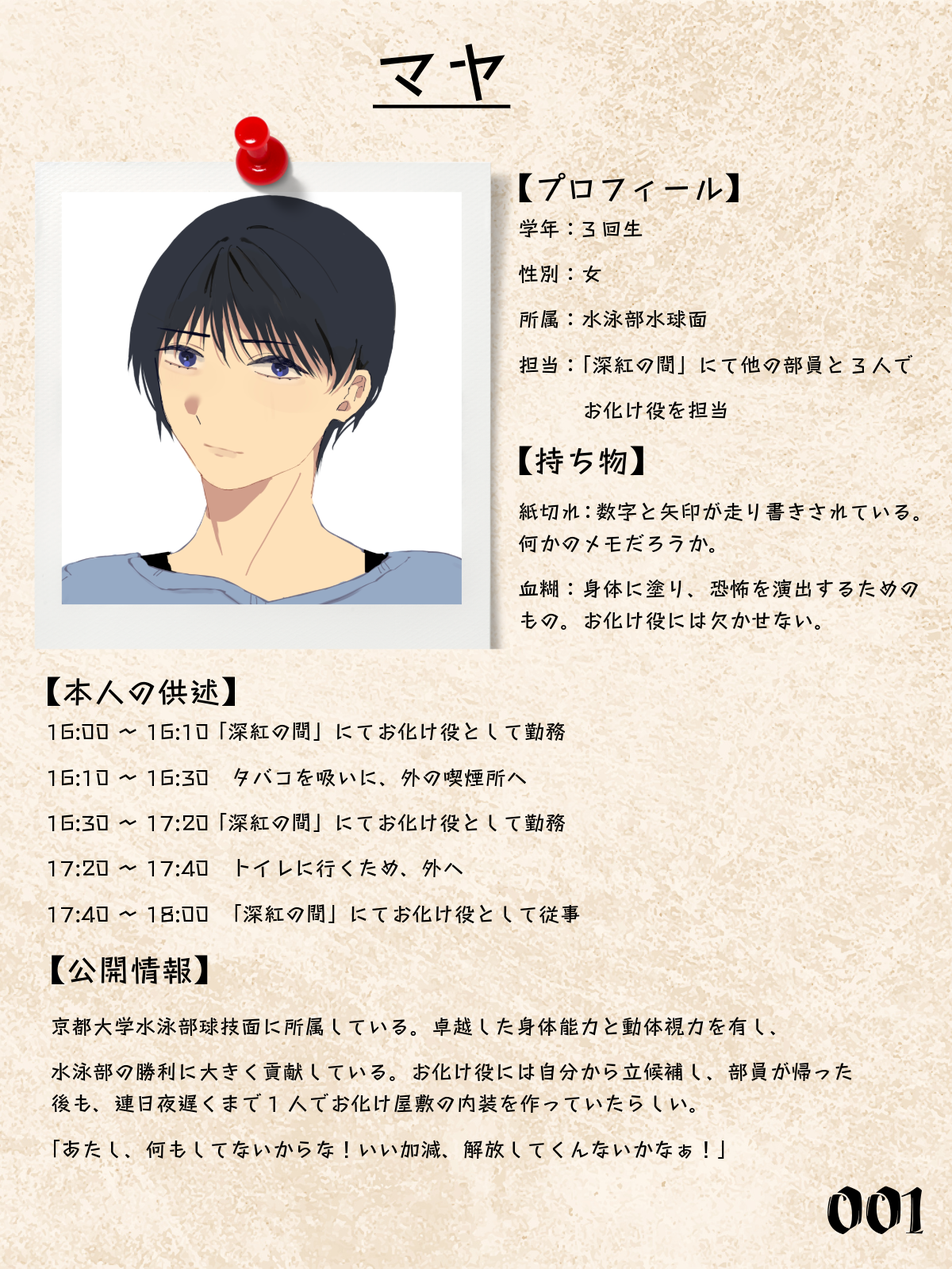
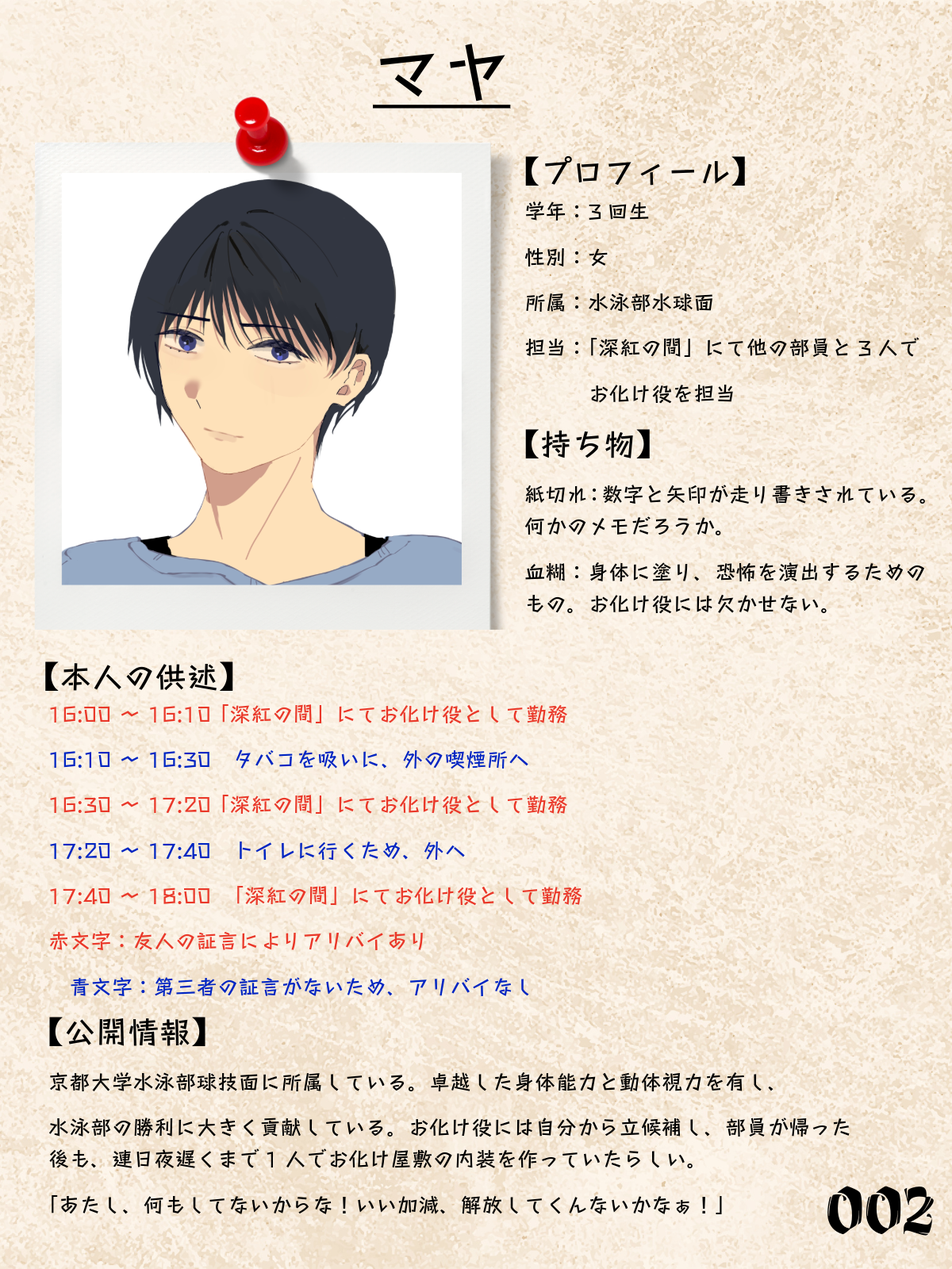
TrueエンドのあとがきとN6の赤汚れを出し、紙カード案内と回答欄を閉じたあとの画面高を直す。

diff --git a/webapp/dist/app.js b/webapp/dist/app.js
@@ -1993,7 +1993,18 @@ function composerContentMarkup(p) {
 }
 
 function puzzleTextMarkup(text) {
-  return String(text).split('{blank}').map(esc).join('<span class="puzzle-blank">？</span>');
+  const source = String(text);
+  const pattern = /\{blank\}|\{stain\}|\{(red|gold|green)\}([\s\S]*?)\{\/\1\}/g;
+  let html = '';
+  let last = 0;
+  for (const match of source.matchAll(pattern)) {
+    html += esc(source.slice(last, match.index));
+    if (match[0] === '{blank}') html += '<span class="puzzle-blank">？</span>';
+    else if (match[0] === '{stain}') html += '<span class="ink-stain" role="img" aria-label="赤い汚れで隠れた文字"></span>';
+    else html += `<span class="ink-${match[1]}">${esc(match[2])}</span>`;
+    last = match.index + match[0].length;
+  }
+  return html + esc(source.slice(last));
 }
 
 function puzzleImages(p = current()) {
@@ -2129,12 +2140,46 @@ const MEI_AB_AFTERWORD_PARAGRAPHS = [
   'という意味深な言葉を残して、〆にしたいと思います。ここまで読んでくださりありがとうございます！長時間のプレイありがとうございました！！',
 ];
 
+const TRUE_AFTERWORD_PARAGRAPHS = [
+  '冥をクリア(Trueエンドに到達)された方へ',
+  'こちらのメッセージをご覧の皆さま。冥のクリアに加え、アンケートにもご回答いただき、誠にありがとうございます。こちらは、3つ目のエンド、Trueエンドのあとがきとなっております。初見でこちらにたどり着いた方は素晴らしい慧眼の持ち主です。ぜひ、あとで他2つのエンディングもご確認ください。メニューバーから再度Q9をプレイすることが可能です。',
+  'せっかくなのでこちらのあとがきでは、制作秘話をお話したいと思います。我ら、Team.KusuNoKiの大文字の4文字は、昨年「クスノキが枯れた日」を発表した際のメンバー4人の名前を取ったものなのですが、今年はそこに2人を加えた6人体制で制作を行いました。（新規メンバー2人のアルファベットが刻まれていないのは文字が足りないから）',
+  '私（2人目のK）は、ウェブサイト、WeBot、そして本編の3つのエンディングを担当したのですが、このワンオペ作業は非常に苦しかったです笑。学生の本分たる勉学の草鞋を脱ぎ捨て、バイトと謎解き開発に邁進した結果がこれになります。',
+  '昨年は回答入力用にLineボットを使用していたのですが、使いづらさが目立ち、回答入力だけでなく、より柔軟な表現や入力などができるようにウェブアプリを構築しました。使い勝手のほどはいかがでしたでしょうか？開発において大変だったのが、やはりデザイン面とバグの解消です。私自身がこだわり派の人間なこともあり、見やすい、滑らかに動く、わかりやすい統一的なデザインを模索したため、構築に非常に時間を要してしまいました。この程度の小さいアプリでもバグは結構出るもので、テストプレイ段階で画像の差し替えや動作不良が続々と見つかりまして、その都度求められる修正作業が必要でした。',
+  '私は謎づくりのセンスはまったくないのですが、チームメンバーには才能を持つものが何人かいまして、彼らの作る謎を一般人の視点でレビューしておりました。特に私の評価が高いのはN4の標識の謎とQ9の儀式の工作の謎です。去年にはなかったテイストの謎であり、テストプレイをして感動しました。',
+  'そして3つのエンディングですが、ぜひ感想を伺いたく思います。3つのエンディングは1本あたり4時間近く思考して書き上げています。Xなどで好きなエンディングを答えていただけると幸いです。個人的な好みはA。',
+  '前作ではシナリオを担当したものの、今作ではウェブアプリの構築や最終的に断念したもののNFで販売予定だった別の作品に取り組んでいたこともあってエンディングに専念させていただきました。3つのエンドは「選択」をテーマとして、中でもノーマルエンドの2つは、選択のもたらす結末への向き合い方について2つのパターンを示すエンドにしたつもりです。やはり、物語的で綺麗な結末なのは中断ルート（ルートA）で、私の実際の思考に近いのは続行ルート（ルートB）かなと思っています。約束の伏線はルートAを書き上げたあとに物語内に仕込みました。そしてこのTrueルートは、2つのルート完成後に、既存の約束を発展させつつタツの強い決意を引き出すため、多くを語らなかったミサメの行動原理に触れ、最終的に約束を叶えた暁に未来につながる新しい約束を結ぶという展開を構想した次第です。',
+  'このエンドの末文「窓の外はあの日のような宵の空。落日の深青に漂う茜色の余燼が冒険の終わりと次なる旅路を予感させた。」は私のお気に入りです。余燼とは焚き火のあとで炎が消え、赤くくすぶって燃え残っている火のことを指します。この単語から終わりだけでなく同時に次の日の出立＝これからの未来を連想し、この結末にピッタリの表現だと考え採用しました。',
+  '最後となりますが、ここまでプレイしていただきありがとうございました。去年できなかったことをやりたいという思いから、今年はウェブアプリの導入、周遊要素を増した謎、工作をする謎、マルチエンディングなど新しい挑戦を多数導入しました。至らぬところは多々あったと思いますが楽しんでいただけたら光栄です。まだ他のエンドを見ていないという方はぜひそちらもお楽しみください。来年の出展はまだ予定しておりませんが、皆様の声が励みとなります。公式Xのフォローもよろしくお願いします。この度はありがとうございました',
+];
+
+const TRUE_AFTERWORD_NOTES = [
+  '①　N1の色が変：実は最初の謎からハナの色覚異常についての伏線は貼られていました。N1をもう一度確認してみると、太陽のイラストの赤色が変ですよね...。',
+  '②　末席同好会の貼り紙の色が変：こちらは、覚えている方は少ないと思いますが、末席同好会のチラシに使われている色も少し変でした。ハナは堂々と赤色と思って使った色が...ということです。',
+  '③　N5の問題文が「最『期』の場所へ向かえ」になっている。正しい漢字は「最『後』」ですよね。ここもハナのお茶目心で、「あんた次の行ったところで死にまっせ」みたいな意味合いだったんですね。誤植だと思われたみなさん、違います！！！(大声)。タツたちは、「最期」の漢字を普通に「最後」と捉えて会話を進めていましたね...。気づいたところで、まさか行ったら殺されるなんて気づかず、誤植だと思うだけですが...。',
+  '④　実は、N5のタイトル「Navigate to Fear」は、恐怖への誘い、もっとストレートに言うと、「お化け屋敷への誘い」だったんですよね。ほとんどの皆様が、タイトルが「NF縛り」なのは気づかれたと思うんですけど、N5のタイトルから、勘の良い人は問題を解かずとも最期の場所はお化け屋敷と気づきそうです(気づきましたか？)。これを書いていて思い出しましたが、N3のタイトル「Notice of Fortune　幸運のお告げ」はおみくじのことを暗喩しています。',
+  '⑤　サダヲは本当にお腹が弱いだけ。サダヲは、犯人候補の4人のうち、唯一、何も後ろめたいことがない人です。なのに、一番疑われて...不憫なキャラです（笑）。',
+  '⑥　マヤの持ち物「紙切れ」には、実は金庫の開け方が書いてあるという設定がありました。わざわざ作中で回収する程でもなく、ミスリーディング要員で置いておきました。同様にアツヤのライトに名前の刻印があるのも特に意味はありません。攪乱要員です。',
+  '⑦　ハナが冥の冒頭、ミサメの死体を急に見たときに「血ってこんなスミレ色なの！？」って言ってたのは演技＆色覚異常の伏線です。隠し部屋が発見された時の、ハナの「信じられない！ありえない！」みたいな会話も彼女の演技でした。名演ですよね。作中で、タツに「演技上手かったぜ」みたいなのを最後に言わせたかったのですが、思ったより最後の展開がシリアスになってしまい、そんな余裕はありませんでした（笑）。',
+];
+
+function afterwordParagraphs(texts) {
+  return texts.filter(text => typeof text === 'string' && text.trim()).map(text => `<p>${esc(text)}</p>`).join('');
+}
+
 function afterwordMarkup() {
-  const paragraphs = (meiEndRoute === 'god-returned' || meiEndRoute === 'world-saved'
+  const trueEnding = meiEndRoute === 'all-saved';
+  const paragraphs = meiEndRoute === 'god-returned' || meiEndRoute === 'world-saved'
     ? MEI_AB_AFTERWORD_PARAGRAPHS
-    : !meiEndView && !meiEndRoute ? AFTERWORD_PARAGRAPHS : []).filter(text => typeof text === 'string' && text.trim());
-  const body = paragraphs.length
-    ? paragraphs.map(text => `<p>${esc(text)}</p>`).join('')
+    : trueEnding ? TRUE_AFTERWORD_PARAGRAPHS
+    : !meiEndView && !meiEndRoute ? AFTERWORD_PARAGRAPHS : [];
+  const letter = afterwordParagraphs(paragraphs);
+  const notes = trueEnding ? afterwordParagraphs(TRUE_AFTERWORD_NOTES) : '';
+  const note = notes
+    ? `<details class="afterword-note"><summary>制作者より一言${icon('chevron')}</summary><div class="afterword-note-body"><p class="afterword-note-heading">冥の謎について</p>${notes}</div></details>`
+    : '';
+  const body = letter || note
+    ? `${letter}${note}`
     : '<p class="afterword-placeholder">あとがきの本文は、ここに表示されます。</p>';
   return `<section class="afterword" aria-labelledby="panel-title">
     <button class="icon-button afterword-close" data-action="close" aria-label="閉じる">${icon('close')}</button>
@@ -2476,7 +2521,7 @@ function render({ scroll = false, peelingConclusions = [] } = {}) {
       const physical = gained.find(card => card.id === '404');
       if (physical) {
         const gallery = (scenario.clueGallery ?? []).find(card => card.requires?.card === '404');
-        presentCardReward(gallery ?? physical, false, '会場でプレイされている方はスタッフからカード現物を受け取ってください。');
+        presentCardReward(gallery ?? physical, false);
       } else if (gained.length) announceNewClue(gained.length);
     }
   }
@@ -2649,6 +2694,12 @@ function combineFabMarkup() {
 
 function combinationRewardCard(result) {
   return (scenario.clueGallery ?? []).find(card => card.requires?.combination === result.id) ?? null;
+}
+
+function paperCardPickupNote(card) {
+  const number = String(card?.number ?? card?.mark ?? '');
+  if (!/^(400|401|402|403|404)$/.test(number)) return '';
+  return `会場でプレイされる方へ：紙のカードをご希望の方は、『${number}』を取りにお越しください`;
 }
 
 function presentCardReward(card, already, note = '') {
@@ -3446,7 +3497,8 @@ function openPanel(kind, { keepFocus = false, revealSelector = null, showStartBu
     const showReplay = !pendingReward && playSaves.getStatus().mode === 'debug';
     title = already ? '取得済みの手がかり' : '手がかりを手に入れた';
     const message = already ? 'この手がかりは取得済みです。' : `新しい手がかり「${esc(card.title)}」を手に入れた。`;
-    const note = pendingReward?.note ? `<strong class="hex-reward-note">${esc(pendingReward.note)}</strong>` : '';
+    const noteText = pendingReward?.note || (!already ? paperCardPickupNote(card) : '');
+    const note = noteText ? `<strong class="hex-reward-note">${esc(noteText)}</strong>` : '';
     content = `<div class="hex-reward-stage"><div class="hex-reward-flash" aria-hidden="true"></div><div class="hex-reward-card"${already ? ' data-settled="true"' : ''}><div class="hex-reward-spin"><div class="hex-reward-face hex-reward-back" aria-hidden="true"></div><div class="hex-reward-face hex-reward-front"><img src="${esc(card.image)}" alt="${esc(card.title)}（手がかり番号 ${esc(card.number)}）" decoding="async"></div></div></div></div><p class="hex-reward-message" role="status">${message}${note}</p><div class="hex-reward-actions"><button class="primary-button" data-action="hex-card">手がかりを見る</button>${showReplay ? '<button class="secondary-button" data-action="hex-open">もう一度解く</button>' : ''}</div>`;
   } else if (kind === 'hex-pending') {
     title='システム';content='<p role="status">クリアしました。手がかりの保存を確認しています。通信が戻ったら、もう一度確認してください。</p><button class="primary-button full" data-action="hex-save-retry">保存を確認する</button>';
@@ -3548,7 +3600,7 @@ function openPanel(kind, { keepFocus = false, revealSelector = null, showStartBu
     content = pageTurnCardMarkup(p.pageTurnText, { action: 'yoi-next', buttonLabel: '宵の最後まで読んだら次へ' });
   } else if (kind === 'tour-thanks') {
     title = '周遊版のアンケート';
-    content = `<h2 id="panel-title" class="sr-only">${title}</h2><button class="icon-button tour-thanks-close" data-action="close" aria-label="閉じる">${icon('close')}</button><div class="tour-thanks"><p>周遊版をプレイしてくださり、ありがとうございました。謎の内容、難易度などはいかがでしたでしょうか？ お時間よろしければアンケートにご回答ください。（所要1分）</p><div class="tour-thanks-book"><img src="../assets/book-mei.webp" width="721" height="1024" alt="11月の救祭 冥 冊子"><div class="tour-thanks-book-info"><p class="tour-thanks-book-title">11月の救祭 冥</p><p class="tour-thanks-book-price">800円</p><p class="tour-thanks-book-note">付属図書館前で販売中</p></div></div><button type="button" class="primary-button" data-action="tour-survey">アンケートはこちら</button></div>`;
+    content = `<h2 id="panel-title" class="sr-only">${title}</h2><button class="icon-button tour-thanks-close" data-action="close" aria-label="閉じる">${icon('close')}</button><div class="tour-thanks"><p>周遊版をプレイしてくださり、ありがとうございました。謎の内容、難易度などはいかがでしたでしょうか？ お時間よろしければアンケートにご回答ください。（所要1分）ご回答いただいた方には、ささやかなお礼として、制作の裏話を綴ったあとがきを公開しております。</p><div class="tour-thanks-book"><img src="../assets/book-mei.webp" width="721" height="1024" alt="11月の救祭 冥 冊子"><div class="tour-thanks-book-info"><p class="tour-thanks-book-title">11月の救祭 冥</p><p class="tour-thanks-book-price">800円</p><p class="tour-thanks-book-note">クスノキ北西 (附属図書館前)で販売中</p></div></div><button type="button" class="primary-button" data-action="tour-survey">アンケートはこちら</button></div>`;
   } else if (kind === 'survey') {
     title = 'アンケート';
     surveyStatus = 'idle';
@@ -3920,7 +3972,7 @@ function answer(value) {
 
 document.addEventListener('click', event => {
   const summary = event.target.closest('summary');
-  if (summary?.parentElement?.matches('.history-entry, .answer-reveal:not(.hint-answer), .trouble-photos') && toggleDisclosure(summary.parentElement, reducedMotion())) {
+  if (summary?.parentElement?.matches('.history-entry, .answer-reveal:not(.hint-answer), .trouble-photos, .afterword-note') && toggleDisclosure(summary.parentElement, reducedMotion())) {
     event.preventDefault();
     return;
   }

diff --git a/webapp/dist/scenario.js b/webapp/dist/scenario.js
@@ -177,7 +177,7 @@ export const scenario = {
       options: ['①', '②', '③', '④', '⑤', '⑥', '⑦', '⑧', '⑨', '⑩'].map((label, index) => ({ id: String(index + 1), label })),
       answers: ['10'],
       hints: [
-        'それぞれのイラストが何を表しているか考えてみよう。☀は日、🌾は米、Helloと話す人は英。🧘は何を表しているだろう。',
+        'それぞれのイラストが何を表しているか考えてみよう。☀は日、🍚は米、Helloと話す人は英。🧘は何を表しているだろう。',
         '🧘は仏を表しているようだ。日、米、英、仏。これらのワードから何か連想されるものはないだろうか。',
         '日本、アメリカ、イギリス、フランス。それぞれのイラストは国を表しているようだ。国と、3つの円の外側にある赤・青・白の文字。国の持つ色といえば、何があっただろうか。',
         '国と色。そこから連想されるのは国旗だろう。だとすると、フランスの国旗はどこに入るべきだろうか。',
@@ -431,7 +431,7 @@ export const scenario = {
       placeholder: '空欄①を1単語で入力…',
       answers: ['ドライアイス'], hints: [
         '布について詳しく調べてみることはできないだろうか。科学に詳しい人物に聞けば、何かわかるはずだ。',
-        '追加カード「布について」は得られただろうか。どうやら布には、何かとても冷たいものを使って細工がされていたようだ。まだ入っていない部屋も含めて、一度お化け屋敷全体をくまなく探してみよう。',
+        '追加カード「布について」は得られただろうか。どうやら布には、何か冷たいものを使って細工がされていたようだ。まだ入っていない部屋も含めて、一度お化け屋敷全体をくまなく探してみよう。',
         'お化け屋敷を探しても冷たいものは見つからない。まだ入れていないのは控室だけだ。暗号を解いて部屋を探してみよう。',
         '「控室について」によると、控室にはドライアイスが保管されていたようだ。これとハンマーを使えば、直接その場にいなくても布を取り外すことができるはずだ。',
       ], explanation: '答えは「ドライアイス」です。',
@@ -470,7 +470,7 @@ export const scenario = {
       listSymbol: '△', requiresSolved: ['Q3'],
       prompt: '犯人が足場として利用したと考えられる物を答えよ。（漢字2文字）',
       placeholder: '漢字2文字で入力…', answers: ['脚立'],
-      hints: [], explanation: '',
+      hints: ['手がかり100を見よう'], explanation: '答えは「脚立」です。',
       dialogue: [{ speaker: 'タツ', text: '「確か、脚立が一台なくなったって報告があったよな。それを使えば梁まで届くかもしれない。でも、肝心の脚立がどこにも見当たらない。容疑者たちが脚立をお化け屋敷の外に持ち出したなら、さすがに誰かが気づくはずだ。……まさか、まだお化け屋敷の中にあるのか？ でも、いくら探しても見つからない。一体どこに隠されているんだ？」' }],
       instruction: '', unlock: [],
     },
@@ -513,17 +513,18 @@ export const scenario = {
       answerLayout: 'compact',
       displayId: 'N6',
       listSymbol: '〇',
-      prompt: '通過順に並べよ', placeholder: '答えを入力…',
-      imageAlt: 'N6の問題原本。線を通過する順に並べよ。ヒント：赤、黄、青は今見た色。5つの空欄と、色の付いた文字の札。',
-      diagram: '../assets/n6-diagram.svg',
-      diagramAlt: 'N6の図。左に5つの空欄。右に黄色の「か・の・も」、緑色の「せ・お・べ」、赤紫色の「は・す・し」の札。',
-      cardHeading: '通過順に並べよ',
-      cardInstruction: 'ヒント：赤、黄、青は今見た色',
+      prompt: '線を通るものを順に並べよ', placeholder: '答えを入力…',
+      imageAlt: 'N6の問題原本。線を通るものを順に並べよ。ヒントの「く」と「ま」のあいだは赤い汚れで隠れている。5つの空欄と、色の付いた文字の札。',
+      diagram: '../assets/n6-problem.jpg',
+      diagramAlt: 'N6の図。線を通るものを順に並べよ。ヒントは色のついた赤・黄・青と、赤い汚れで一部が隠れた文。左に5つの空欄。黄色の「か・の・も」、緑色の「せ・お・べ」、赤紫色の「は・す・し」の札。',
+      cardHeading: '線を通るものを順に並べよ',
+      cardInstruction: 'ヒント：{red}赤{/red}、{gold}黄{/gold}、{green}青{/green} は、く{stain}まが今見た色',
       answers: ['かべおせ'], hints: [
         'このイラストの光景、日常生活のどこかで見たことはないだろうか。',
         'どうやらこのイラストは横断歩道の様子を表しているらしい。だとすると、赤、黄、青とはいったい何だろうか。',
         '赤、黄、青は信号機のことだろう。信号の交通ルールに従って、線を通過する順番を考えてみよう。',
-      ], explanation: '',
+        '停止線寸前の黄色信号を見た『くるま』は通過しそうだ。逆に停止線寸前の赤は決して通過してはいけない。青色の信号を見たくるまは全て通過しそうだ。残りの黄色いくるまは停止線から遠いので止まり、赤い車はもちろん止まりそうだ',
+      ], explanation: '答えは「かべおせ」です。',
       dialogue: [
         { speaker: 'タツ', text: '「答えはかべおせ」？ まさか、この壁を押せってことか？' },
         { speaker: '', text: 'タツは幽煙の間の北壁をじっと見た。' },
@@ -595,7 +596,9 @@ export const scenario = {
       prompt: '凶器は何か？1単語で答えよ',
       placeholder: '1単語で入力…', answers: ['ドライアイス'],
       hints: [
-        '犯行に使われうる凶器を考えてみよう。犯人は証拠隠滅のため、凶器を隠し部屋に隠していたはずだ。隠し部屋の中に、凶器になりうるものがないか探してみよう。',
+        '隠し部屋の中には、凶器らしきものはなかった。深紅の間のトンカチもルミノール反応の結果、凶器ではなさそうだ',
+        'ドライバー、ハンマーなどもお化け屋敷の中にはあるが、使われた形跡はない。果たして、『消える凶器』というものは本当にあるのだろうか',
+        '確か今までの推理で『自然に消えるもの』があったはずだ。しかもそれは人を殴れるような固さの物だった。思い出してみよう',
       ], explanation: '答えは「ドライアイス」です。',
       answerResponses: {
         トンカチ: [
@@ -650,9 +653,11 @@ export const scenario = {
         { symbol: 'D', label: 'ブロックDの手がかり番号', placeholder: '手がかり番号', inputMode: 'numeric', answers: ['302'] },
       ],
       hints: [
-        '一度、ハナのプロフィールや評判をおさらいしてみよう。何か特徴的なものはないだろうか。',
-        'もしハナが犯人だったとすると、これまでの謎解きや犯行のトリックはすべてハナが考え、実行したものになる。どこかに、ハナが犯人だといえる証拠はないか探ってみよう。',
-        '確かハナは、ある工夫をして隠し部屋が開いたタイミングを把握していたはずだ。',
+        'ブロックAについて：ハナは本当にミサメが隠し部屋に辿り着いたタイミングが分からなかっただろうか？視界は悪いけれど「聞く」ことはできたはず...',
+        'ブロックBについて：ハナが言っていることは正しそうだ',
+        'ブロックCについて：ハナが言っていることの真偽を確かめられるだろうか？確か悪夢の間にチラシが落ちていたが...',
+        'ブロックDについて：N6は信号機と車の問題であったが、違和感があった要素はないだろうか？',
+        'ブロックDについて：N6の問題の赤色、あれは正直赤色と呼べるだろうか...。紫色に近い。なぜ問題の作成者はこんな変な色を使ったのだろう...',
       ], explanation: '答えはブロック「A」と手がかり番号「203」、およびブロック「D」と手がかり番号「302」です。',
       dialogue: [
         { speaker: 'タツ', text: '「ずっと違和感があったんだ。あのN6の問題……信号機が題材のはずなのに、配色がおかしい。信号機の赤・黄・青は、あんな色じゃない。」' },
@@ -798,10 +803,10 @@ export const scenario = {
   minigames: [{
     id: 'hex-cube', title: '控室の問題', body: '六角形の模様が描かれた小さな装置。面を操作すると、中に隠されたものが取り出せそうだ。', rewardCard: 'clue-23',
     hints: [
-      'イラストの下に書かれている「2D → 3D → 2D……」に注目してみよう。これはいったい何の指示なのだろうか。',
-      'おそらく指示の内容は、2D → 3D → 2D……のようにイラストの見方を順に変えていけということだろう。その指示に従って、もう一度問題を解いてみよう。',
-      '3D、つまりイラストを立方体として見たとき、ある1つの面を押すと、残りの面の色はどう変わるだろうか。',
-      'どうやら3Dで見たときは、押した面以外の面の色がすべて反転するようだ。つまり、黒い面を押したときに残りの面がすべて白ければ、すべての面を黒くできるのではないだろうか。',
+      'イラストの下に書かれている2D→3Dと→2D・・・に注目してみよう。これはいったい何の指示なのだろうか。',
+      'おそらく指示の内容は2D→3D→2D・・・のようにイラストの見方を順に変えてゆけということだろう。その指示に従ってもう一度問題を解いてみよう。',
+      '3Dつまりイラストを立方体としてみた時ある一つの面を押すと残りの面の色はどう変わるだろうか。',
+      'どうやら3Dで見たときは押した面以外の面の色はすべて反転するようだ。つまり、黒い面を押したとき、残りの面がすべて白ければすべての面を黒くできるのではないだろうか。',
       '今回の問題を解くのに必要な手数は2回だ。',
     ],
   }],

diff --git a/webapp/dist/viewport.js b/webapp/dist/viewport.js
@@ -7,7 +7,10 @@ export function bindVisualViewport(win = window, doc = document) {
   let lastWidth;
   let lastHeight = 0;
   let settleTimer = 0;
+  let releaseTimer = 0;
   let keyboardHeld = false;
+  // 回答欄を閉じたあと、キーボード収納の resize が来ず可視高だけが縮んだままになる端末がある。
+  let viewportStale = false;
   let sheetMorph;
   const listeners = [];
 
@@ -31,6 +34,39 @@ export function bindVisualViewport(win = window, doc = document) {
     return true;
   }
 
+  function editingElement(focused = doc.activeElement) {
+    return Boolean(focused?.matches?.('input:not([type="checkbox"]):not([type="radio"]):not([type="button"]):not([type="submit"]):not([type="hidden"]), textarea, select'));
+  }
+
+  // 回答欄が文書に無いテストや、まだ描画前の状態では「開いている」とみなし、ドックを急がない。
+  function answerFormOpen() {
+    const form = doc.querySelector?.('#answer-form');
+    if (!form) return true;
+    return !form.hidden && !form.closest?.('[hidden]');
+  }
+
+  function armKeyboardRelease() {
+    if (releaseTimer || !win.setTimeout) return;
+    // 回答欄は開いたままフォーカスだけ外れたとき。収納アニメーションより長く待ってから、戻らない可視高を捨てる。
+    releaseTimer = win.setTimeout(() => {
+      releaseTimer = 0;
+      if (editingElement() || !keyboardHeld) return;
+      const reported = win.visualViewport?.height ?? win.innerHeight;
+      const full = Math.max(restingHeight, win.innerHeight || 0);
+      if (full - reported > 24) {
+        viewportStale = true;
+        try { win.scrollTo?.(0, 0); } catch { /* 収納後の位置ずれを戻せない環境では高さだけ戻す。 */ }
+      }
+      update();
+    }, 480);
+  }
+
+  function disarmKeyboardRelease() {
+    if (!releaseTimer) return;
+    win.clearTimeout?.(releaseTimer);
+    releaseTimer = 0;
+  }
+
   function scrollSurface(surface, delta, heightDrop) {
     // キーボード移動中でない小さな補正だけ滑らかに追従する。
     if (surface.scrollBy && Math.abs(heightDrop) < 20 && Math.abs(delta) <= 64 && !reduced()) {
@@ -42,22 +78,45 @@ export function bindVisualViewport(win = window, doc = document) {
     const viewport = win.visualViewport;
     // Pinch zoom should magnify the page rather than resize its application frame.
     if (viewport && Math.abs((viewport.scale ?? 1) - 1) > .01) return;
-    const height = viewport?.height ?? win.innerHeight;
+    let height = viewport?.height ?? win.innerHeight;
     if (!Number.isFinite(height) || height <= 0 || !doc.documentElement?.style) return;
     const focused = doc.activeElement;
-    const editing = Boolean(focused?.matches?.('input:not([type="checkbox"]):not([type="radio"]):not([type="button"]):not([type="submit"]):not([type="hidden"]), textarea, select'));
+    const editing = editingElement(focused);
     const editingAnswer = Boolean(editing && focused?.closest?.('#answer-form'));
-    // キーボード保持中に基準高を縮んだ値で上書きしない。
-    if (!restingHeight || win.innerWidth !== lastWidth || (!editing && !keyboardHeld)) restingHeight = height;
+    const formOpen = answerFormOpen();
+    // キーボード保持中や、戻らない可視高を無視している間は、基準高を縮んだ値で上書きしない。
+    if (!restingHeight || win.innerWidth !== lastWidth || (!editing && !keyboardHeld && !viewportStale)) restingHeight = height;
     lastWidth = win.innerWidth;
-    const shrunk = Math.max(restingHeight, win.innerHeight) - height;
-    // いったんドックしたら、キーボードが退き切るまで形状を維持する。
-    if (editingAnswer && shrunk > 80) keyboardHeld = true;
-    else if (shrunk <= 24) keyboardHeld = false;
+    const full = Math.max(restingHeight, win.innerHeight || 0);
+    let shrunk = full - height;
+    // いったんドックしたら、キーボードが退き切るか、回答欄が閉じるまで形状を維持する。
+    if (editingAnswer && formOpen && shrunk > 80) {
+      keyboardHeld = true;
+      viewportStale = false;
+    } else if (shrunk <= 24) {
+      keyboardHeld = false;
+      viewportStale = false;
+    }
+    // 正解で回答欄が隠れると、閉じる最後の resize が来ないことがある。その縮みは画面の空きではない。
+    if (keyboardHeld && !formOpen) {
+      if (!viewportStale) {
+        viewportStale = true;
+        try { win.scrollTo?.(0, 0); } catch { /* 高さの復元だけでも灰色の空きは埋まる。 */ }
+      }
+    }
+    let top = viewport?.offsetTop ?? 0;
+    // 回答欄が閉じているときは、入力へフォーカスが残って見えても縮みを画面高に使わない。
+    if (viewportStale && shrunk > 24 && (!formOpen || !editing)) {
+      height = full;
+      top = 0;
+      keyboardHeld = false;
+      shrunk = 0;
+    }
+    if (keyboardHeld && !editing && formOpen) armKeyboardRelease();
+    else disarmKeyboardRelease();
     const keyboard = keyboardHeld;
     const heightDrop = lastHeight ? lastHeight - height : 0;
     lastHeight = height;
-    const top = viewport?.offsetTop ?? 0;
     const bottom = top + height;
     const style = doc.documentElement.style;
     style.setProperty('--visual-height', `${height}px`);
@@ -132,5 +191,5 @@ export function bindVisualViewport(win = window, doc = document) {
   for (const name of ['resize', 'scroll', 'orientationchange', 'pageshow']) listen(win, name);
   for (const name of ['focusin', 'focusout']) listen(doc, name);
   update();
-  return { update, schedule, dispose() { win.clearTimeout?.(settleTimer); sheetMorph?.cancel(); for (const [target, name] of listeners) target.removeEventListener(name, schedule); } };
+  return { update, schedule, dispose() { win.clearTimeout?.(settleTimer); win.clearTimeout?.(releaseTimer); sheetMorph?.cancel(); for (const [target, name] of listeners) target.removeEventListener(name, schedule); } };
 }

diff --git a/webapp/dist/styles.css b/webapp/dist/styles.css
@@ -436,6 +436,10 @@ html:has(.chat-area.investigation-hub) { overscroll-behavior: none; }
 .puzzle-card-copy .puzzle-card-instruction { margin-bottom: 14px; }
 .puzzle-card-copy .puzzle-card-destination { padding-top: 14px; border-top: 1px solid var(--surface); }
 .puzzle-blank { display: inline-flex; align-items: center; justify-content: center; width: 1.6em; height: 1.6em; margin-inline: 2px; border-radius: 50%; background: var(--ink); color: var(--white); font-weight: 400; line-height: 1; }
+.ink-red { color: #b23696; }
+.ink-gold { color: #e0a020; }
+.ink-green { color: #6a9a48; }
+.ink-stain { display: inline-block; width: 1.05em; height: 2.05em; margin: 0 -0.04em -0.7em; vertical-align: -0.18em; background: url("./assets/n6-ink-stain.png") center / contain no-repeat; }
 .composer-area .start-puzzle-card { padding: 0; border-radius: 0; box-shadow: none; }
 .composer-area .puzzle-card-number { display: none; }
 .puzzle-card-answer, .puzzle-text-answer { display: grid; grid-template-columns: minmax(0, 1fr); gap: 8px; margin-top: 18px; min-width: 0; }
@@ -661,6 +665,15 @@ dialog.afterword-dialog { inset: 0; width: min(440px, calc(100vw - 24px)); heigh
 .afterword-scroll { flex: 1; min-height: 0; overflow-y: auto; overscroll-behavior: contain; padding: 22px 28px 8px; text-align: left; }
 .afterword-scroll:focus-visible { outline: 2px solid var(--accent-ink); outline-offset: -6px; }
 .afterword-scroll p { margin: 0 0 1.15em; font-size: 15px; line-height: 2; white-space: pre-wrap; }
+.afterword-note { margin: 6px 0 18px; border-top: 1px solid #1c140f22; }
+.afterword-note > summary { display: flex; align-items: center; justify-content: space-between; gap: 12px; min-height: 52px; margin: 0; padding: 14px 2px; border-radius: 8px; background: transparent; color: #1c140f; font: 15px var(--serif); letter-spacing: .08em; line-height: 1.6; cursor: pointer; list-style: none; }
+.afterword-note > summary::-webkit-details-marker { display: none; }
+.afterword-note > summary > svg { flex: none; width: 18px; height: 18px; transition: transform var(--motion-state) var(--motion-ease); }
+.afterword-note[open] > summary > svg { transform: rotate(180deg); }
+.afterword-note > summary:focus-visible, .afterword-note > summary:active { background: #1c140f0d; }@media (hover: hover) { .afterword-note > summary:hover { background: #1c140f0d; } }
+.afterword-note-heading { margin-bottom: .7em; font: 15px var(--serif); letter-spacing: .08em; }
+.afterword-note-body { padding: 2px 2px 0; }
+@media (prefers-reduced-motion: reduce) { .afterword-note > summary > svg { transition: none; } }
 .afterword-placeholder { margin: 28px 0 0; color: var(--muted); text-align: center; font-size: 14px; line-height: 1.9; }
 .afterword-actions { flex: none; padding: 8px 22px 22px; }
 .afterword-actions .secondary-button { width: 100%; min-height: var(--control-height-lg); border: 1px solid #1c140f55; border-radius: var(--radius-pill); background: transparent; color: #1c140f; font-size: 14px; box-shadow: none; }

diff --git a/webapp/dist/feedback.js b/webapp/dist/feedback.js
@@ -21,7 +21,7 @@ export function toggleDisclosure(details, reduced = false) {
   if (!summary || !details.animate || reduced) {
     previous?.animation.cancel();
     disclosures.delete(details);
-    const content = details.querySelector('.history-messages, p');
+    const content = details.querySelector('.history-messages, .afterword-note-body, p');
     if (content) content.inert = false;
     return false;
   }
@@ -29,7 +29,7 @@ export function toggleDisclosure(details, reduced = false) {
   const from = details.getBoundingClientRect().height;
   previous?.animation.cancel();
   if (opening) details.open = true;
-  const content = details.querySelector('.history-messages, p');
+  const content = details.querySelector('.history-messages, .afterword-note-body, p');
   if (content) content.inert = !opening;
   // Summary height plus the details' own padding/border (the latter excludes body).
   const closedHeight = summary.getBoundingClientRect().height + details.offsetHeight - details.clientHeight
